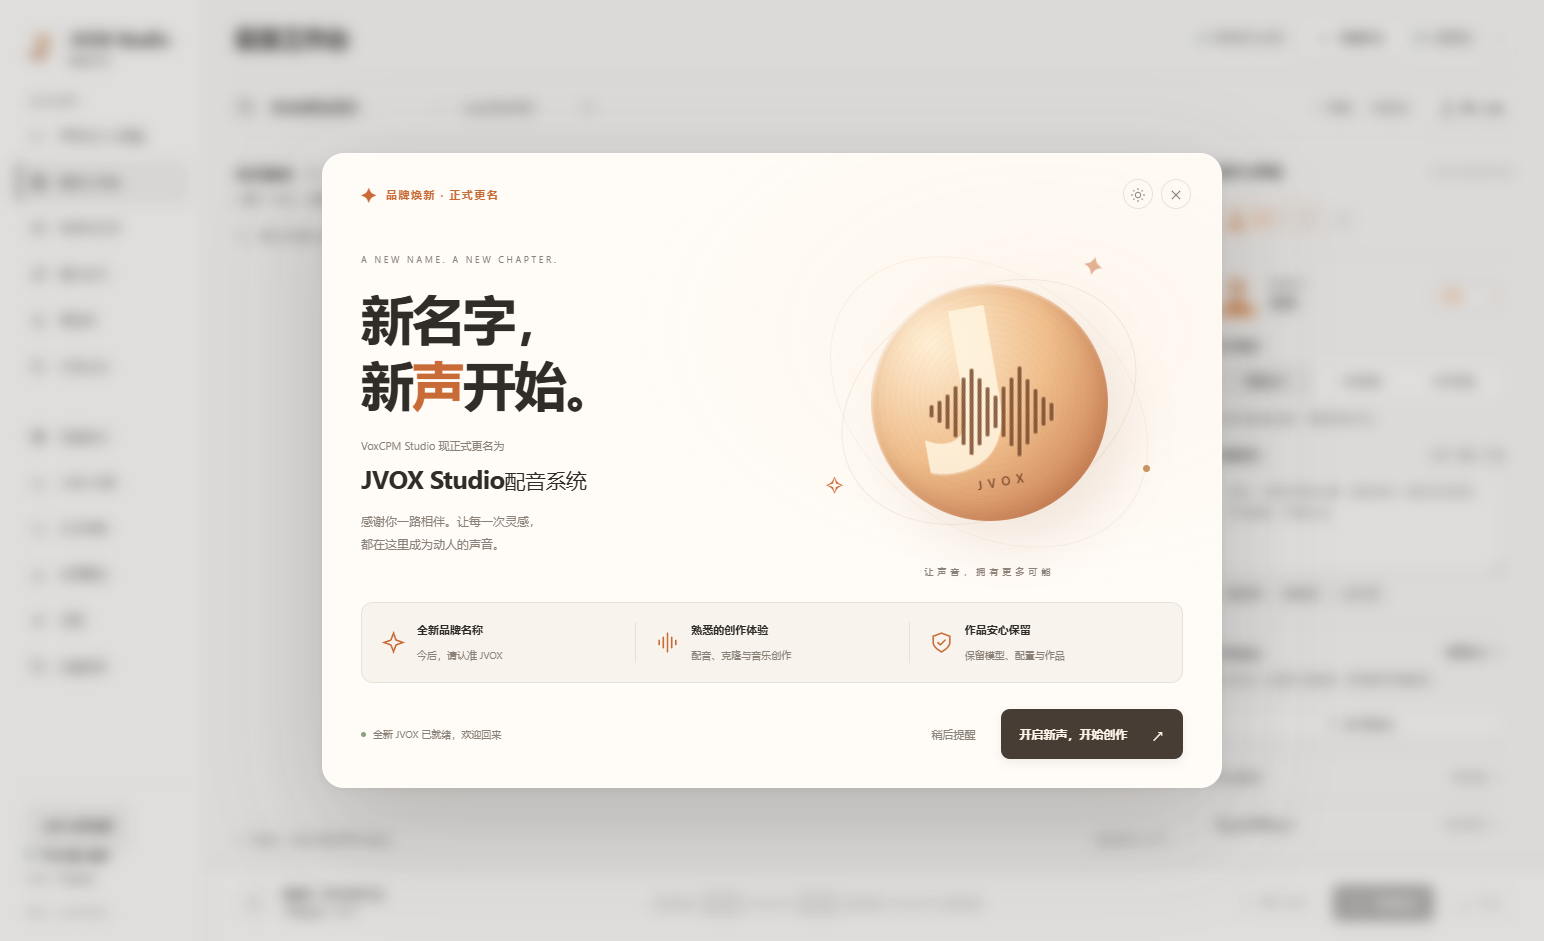
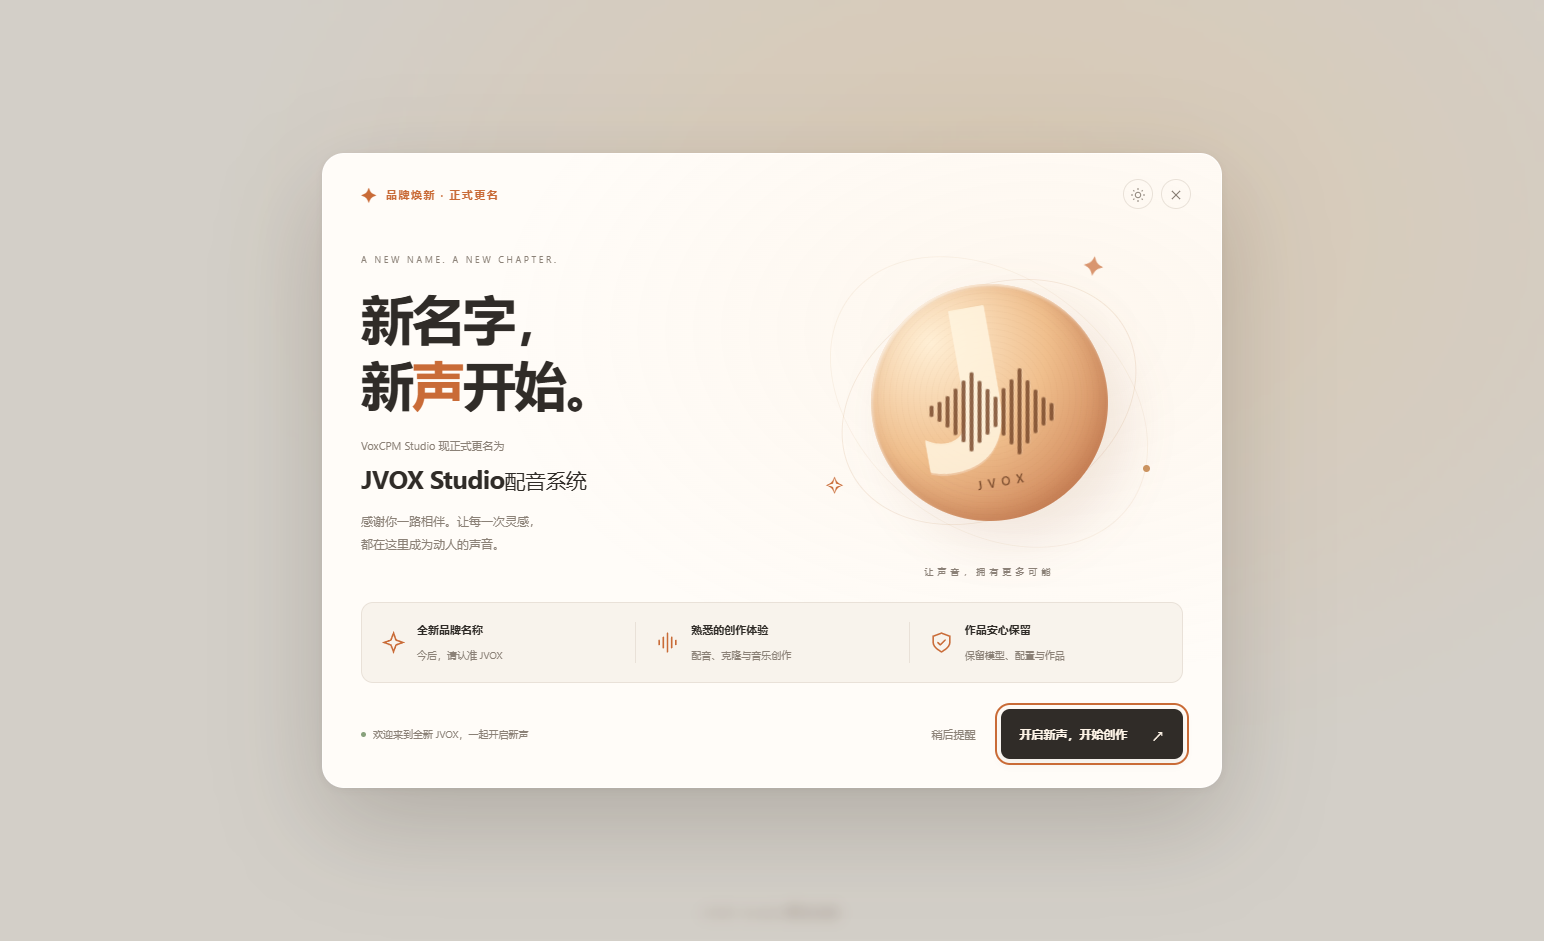
feat(welcome): show celebration as the first screen on initial launch

diff --git a/frontend/voxcpm_studio_electron/src/App.tsx b/frontend/voxcpm_studio_electron/src/App.tsx
@@ -1,4 +1,4 @@
-import { startTransition, useEffect, useState, type ReactNode } from "react";
+import { startTransition, useEffect, useLayoutEffect, useState, type ReactNode } from "react";
 import UpdatePanel from "./UpdatePanel";
 import BrandAnnouncementDialog from "./BrandAnnouncementDialog";
 import ProductionStudio from "./ProductionStudio";
@@ -509,7 +509,7 @@ function App() {
   ];
   const workspaceReferenceAudioUrl = toLocalFileUrl(singleForm.referenceAudio, bootstrap);
 
-  useEffect(() => {
+  useLayoutEffect(() => {
     window.voxcpmDesktop.rendererReady();
     document.body.setAttribute("data-theme", effectiveTheme);
   }, [effectiveTheme]);
@@ -1049,12 +1049,17 @@ function App() {
   );
 
   return (
-    <div className={`app-shell studio-shell ${["production", "voices", "history"].includes(page) ? "studio-creative-page" : ""}`}>
-      {brandAnnouncementOpen && bootstrap?.status === "ready" && <BrandAnnouncementDialog welcome
+    <>
+      {brandAnnouncementOpen && <div className="jvox-entry-screen">
+        <span className="jvox-entry-wordmark" aria-hidden="true">JVOX Studio配音系统</span>
+        <BrandAnnouncementDialog welcome
         onToggleTheme={() => setThemeMode(effectiveTheme === "dark" ? "light" : "dark")}
         onDismiss={() => setBrandAnnouncementOpen(false)}
-        onUpdate={() => { try { localStorage.setItem("jvox-brand-welcome-2026", "seen"); } catch { /* 无法保存时下次启动再次提醒。 */ } setBrandAnnouncementOpen(false); }} />}
-      <RuntimePreparation onRun={handleStartService} backendStatus={bootstrap?.status || "booting"} backendDetail={bootstrap?.detail || ""} />
+        onUpdate={() => { try { localStorage.setItem("jvox-brand-welcome-2026", "seen"); } catch { /* 无法保存时下次启动再次提醒。 */ } setBrandAnnouncementOpen(false); }} />
+      </div>}
+    <div className={`app-shell studio-shell ${["production", "voices", "history"].includes(page) ? "studio-creative-page" : ""}`}
+      style={brandAnnouncementOpen ? { display: "none" } : undefined} aria-hidden={brandAnnouncementOpen || undefined}>
+      <RuntimePreparation onRun={handleStartService} backendStatus={bootstrap?.status || "booting"} backendDetail={bootstrap?.detail || ""} suppressed={brandAnnouncementOpen} />
       <aside className="sidebar">
         <div className="sidebar-top">
           <div className="studio-brand">
@@ -1770,6 +1775,7 @@ function App() {
         mode={singleForm.mode} editing={!!editingVoiceId} referenceOnly={saveVoiceReferenceOnly}
         onCancel={() => setSaveVoiceOpen(false)} onSave={saveDesignedVoice} />}
     </div>
+    </>
   );
 }
 

diff --git a/frontend/voxcpm_studio_electron/src/RuntimePreparation.tsx b/frontend/voxcpm_studio_electron/src/RuntimePreparation.tsx
@@ -8,7 +8,7 @@ const stages = ["设备检查", "模型检查", "音频环境", "音频服务", 
 const phases: Record<string, number> = { detect: 0, check: 0, python: 2, dependencies: 2, verify: 2, models: 1, "environment-ready": 2, service: 3, components: 4, ready: 5 };
 const mb = (n: number) => `${(n / 1024 / 1024).toFixed(1)} MB`;
 
-export default function RuntimePreparation({ onRun, backendStatus, backendDetail }: { onRun: () => void; backendStatus: string; backendDetail: string }) {
+export default function RuntimePreparation({ onRun, backendStatus, backendDetail, suppressed = false }: { onRun: () => void; backendStatus: string; backendDetail: string; suppressed?: boolean }) {
   const [state, setState] = useState<State | null>(null);
   const [open, setOpen] = useState(false);
   const [showLog, setShowLog] = useState(false);
@@ -26,9 +26,9 @@ export default function RuntimePreparation({ onRun, backendStatus, backendDetail
     else if (backendStatus === "error") setOpen(true);
   }, [backendStatus]);
   useEffect(() => {
-    if (open) { returnFocus.current = document.activeElement as HTMLElement; if (!dialog.current?.open) dialog.current?.showModal(); }
+    if (open && !suppressed) { returnFocus.current = document.activeElement as HTMLElement; if (!dialog.current?.open) dialog.current?.showModal(); }
     else { dialog.current?.close(); returnFocus.current?.focus(); }
-  }, [open]);
+  }, [open, suppressed]);
   const backendFailed = state?.status === "ready" && backendStatus === "error";
   const failed = backendFailed || state?.status === "error" || backendStatus === "error";
   const paused = state?.status === "cancelled";

diff --git a/frontend/voxcpm_studio_electron/src/BrandAnnouncementDialog.tsx b/frontend/voxcpm_studio_electron/src/BrandAnnouncementDialog.tsx
@@ -1,4 +1,4 @@
-import { useEffect, useRef } from "react";
+import { useLayoutEffect, useRef } from "react";
 import "./brand-announcement.css";
 
 type Props = { onUpdate: () => void; onDismiss: () => void; onToggleTheme?: () => void; welcome?: boolean };
@@ -14,7 +14,7 @@ function FeatureIcon({ kind }: { kind: "spark" | "wave" | "shield" }) {
 export default function BrandAnnouncementDialog({ onUpdate, onDismiss, onToggleTheme, welcome = false }: Props) {
   const dialog = useRef<HTMLDialogElement>(null);
   const primary = useRef<HTMLButtonElement>(null);
-  useEffect(() => {
+  useLayoutEffect(() => {
     const element = dialog.current!;
     const previous = document.activeElement as HTMLElement | null;
     element.showModal();
@@ -57,7 +57,7 @@ export default function BrandAnnouncementDialog({ onUpdate, onDismiss, onToggleT
       </section>
 
       <footer className="jvox-announcement-footer">
-        <div className="jvox-footer-note"><span className="jvox-ready-dot" /> {welcome ? "全新 JVOX 已就绪，欢迎回来" : "一次更新，迎接全新 JVOX"}</div>
+        <div className="jvox-footer-note"><span className="jvox-ready-dot" /> {welcome ? "欢迎来到全新 JVOX，一起开启新声" : "一次更新，迎接全新 JVOX"}</div>
         <div className="jvox-announcement-actions"><button className="jvox-later" type="button" onClick={onDismiss}>稍后提醒</button><button ref={primary} className="jvox-update" type="button" onClick={onUpdate}>{welcome ? "开启新声，开始创作" : "立即更新，开启新声"} <span aria-hidden="true">↗</span></button></div>
       </footer>
     </div>

diff --git a/frontend/voxcpm_studio_electron/main.js b/frontend/voxcpm_studio_electron/main.js
@@ -368,7 +368,7 @@ function createWindow() {
   mainWindow = new BrowserWindow({
     title: "JVOX Studio配音系统",
     icon: path.join(__dirname, "app.ico"),
-    show: !preparingInstallation,
+    show: false,
     width: WINDOW_BOUNDS.width,
     height: WINDOW_BOUNDS.height,
     minWidth: WINDOW_BOUNDS.minWidth,
@@ -381,6 +381,10 @@ function createWindow() {
       nodeIntegration: false,
       sandbox: false,
     },
+  });
+
+  mainWindow.once("ready-to-show", () => {
+    if (!preparingInstallation && mainWindow && !mainWindow.isDestroyed()) mainWindow.show();
   });
 
   const distIndex = path.join(__dirname, "dist", "index.html");

diff --git a/frontend/voxcpm_studio_electron/src/brand-announcement.css b/frontend/voxcpm_studio_electron/src/brand-announcement.css
@@ -1,3 +1,6 @@
+.jvox-entry-screen { position: fixed; inset: 0; display: grid; place-items: center; background: radial-gradient(ellipse at 65% 25%, #f8e5cc, transparent 55%), #f1ede6; }
+.jvox-entry-wordmark { position: absolute; bottom: 22px; color: #9c8873; font-size: 10px; letter-spacing: 3px; }
+[data-theme="dark"] .jvox-entry-screen { background: radial-gradient(ellipse at 65% 25%, #3a2d20, transparent 55%), #171715; }
 .jvox-announcement {
   --ja-bg: #fffcf8; --ja-ink: #302c28; --ja-muted: #8b8177; --ja-line: #e9e1d8;
   --ja-accent: #c96b37; --ja-card: #f8f3ec; --ja-button: #302c28; --ja-button-ink: #fff5e8;

diff --git a/docs/自动更新说明.md b/docs/自动更新说明.md
@@ -1,8 +1,8 @@
 # JVOX Studio配音系统 自动更新
 
-产品现正式更名为 **JVOX Studio配音系统**。旧安装目录、模型标识、更新协议、公钥、仓库ID和数据目录保持兼容；旧主程序文件可作为兼容入口继续使用，升级同时创建新名称启动入口并迁移归属明确的快捷方式及卸载名称。首次进入新版展示更名庆祝弹窗，选择“开启新声，开始创作”后不再重复提示；“稍后提醒”在下次启动继续展示。
+产品现正式更名为 **JVOX Studio配音系统**。旧安装目录、模型标识、更新协议、公钥、仓库ID和数据目录保持兼容；旧主程序文件可作为兼容入口继续使用，升级同时创建新名称启动入口并迁移归属明确的快捷方式及卸载名称。首次进入新版时第一屏直接展示更名庆祝页，无需等待本地服务，点击后进入工作台；后台资源准备不会覆盖庆祝页，选择“开启新声，开始创作”后不再重复提示；“稍后提醒”在下次启动继续展示。
 
-当前正式版本为 `2.0.3 / 20261019101750`，启动发现新版直接打开独立更新器，选择后自动完成下载、校验、安装及重启；包含更新切换开关、音乐模型误报修复和使用前自动修复。默认更新源为 [魔搭专用仓库](https://modelscope.cn/models/jiangjiang419/voxcpm-studio-updates)，普通用户无需账号、Token 或代理。
+当前正式版本为 `2.0.3 / 20261019103629`，启动发现新版直接打开独立更新器，选择后自动完成下载、校验、安装及重启；包含更新切换开关、音乐模型误报修复和使用前自动修复。默认更新源为 [魔搭专用仓库](https://modelscope.cn/models/jiangjiang419/voxcpm-studio-updates)，普通用户无需账号、Token 或代理。
 
 历史发布：2026-10-19 发布 `2.0.2 / 20261018235215` 及[单文件老用户更新修复器 EXE](https://modelscope.cn/api/v1/models/jiangjiang419/voxcpm-studio-updates/repo?Revision=master&FilePath=repairers%2F2.0.2%2F20261018235215-0f71f753d9%2FVoxCPM-Update-Repairer.exe)。修复器自带最小更新环境，支持版本记录或更新文件损坏、同发布再次修复、旧事务恢复和旧启动入口修正；修复后常规更新使用独立Python，环境缺失或损坏自动补齐。修复器、更新包及最新入口均匿名回读核验。用户只需保存任务、双击EXE、确认原目录、点击「开始修复并升级」；自动关闭并强制结束该目录隐藏进程，详见[使用说明](./老用户更新修复器使用说明.md)。
 
@@ -10,7 +10,7 @@
 
 正常启动先进入工作区，不执行所选模型的全量校验或音乐环境自检；连接服务时可以先浏览界面，使用对应模型时才进行校验和加载。首次安装及用户显式完整准备仍展示资源检查、下载和安装进度。工作区及基础 API 就绪后自动检查更新，新流程直接打开原生独立更新器，提供“现在更新”和“下次启动更新”；选择前不下载，同次运行不重复自动提醒，网络失败不影响创作。旧客户端首次安装本次更新仍需使用其原有“查看更新/下载更新”入口，此后才具备新流程。
 
-新安装和检查修复统一使用[最终基准安装器 EXE](https://modelscope.cn/api/v1/models/jiangjiang419/voxcpm-studio-updates/repo?Revision=master&FilePath=installers%2F2.0.3%2F20261019101750-ff0f78a9e7%2FJVOX-Studio-Installer.exe)（131751424字节）。内置应用与当前签名更新包逐文件一致，新安装即拥有当前全部应用功能与更新体验；模型和依赖按所选功能联网补齐。已安装则自动检查，正常时可直接开始创作；只有发现问题才关闭本目录进程并修复。详见[分发基准包](./分发基准包.md)和[一体版使用说明](./安装修复一体化使用说明.md)。应用包和一体版EXE均经过签名或SHA256校验与匿名完整回读。
+新安装和检查修复统一使用[最终基准安装器 EXE](https://modelscope.cn/api/v1/models/jiangjiang419/voxcpm-studio-updates/repo?Revision=master&FilePath=installers%2F2.0.3%2F20261019103629-1d02efcb80%2FJVOX-Studio-Installer.exe)（131751424字节）。内置应用与当前签名更新包逐文件一致，新安装即拥有当前全部应用功能与更新体验；模型和依赖按所选功能联网补齐。已安装则自动检查，正常时可直接开始创作；只有发现问题才关闭本目录进程并修复。详见[分发基准包](./分发基准包.md)和[一体版使用说明](./安装修复一体化使用说明.md)。应用包和一体版EXE均经过签名或SHA256校验与匿名完整回读。
 
 ## 使用方法
 

diff --git a/docs/分发基准包.md b/docs/分发基准包.md
@@ -1,15 +1,15 @@
 # JVOX Studio配音系统 分发基准包
 
-当前基准为 `2.0.3 / 20261019101750`，最终安装器构建 `ff0f78a9e7`，编译日期 2026-10-19。新安装使用此文件即可获得当前全部应用功能及修复；模型与运行依赖按用户选择联网补齐。
+当前基准为 `2.0.3 / 20261019103629`，最终安装器构建 `1d02efcb80`，编译日期 2026-10-19。新安装使用此文件即可获得当前全部应用功能及修复；模型与运行依赖按用户选择联网补齐。
 
-[从魔搭下载最终基准安装器](https://modelscope.cn/api/v1/models/jiangjiang419/voxcpm-studio-updates/repo?Revision=master&FilePath=installers%2F2.0.3%2F20261019101750-ff0f78a9e7%2FJVOX-Studio-Installer.exe)
+[从魔搭下载最终基准安装器](https://modelscope.cn/api/v1/models/jiangjiang419/voxcpm-studio-updates/repo?Revision=master&FilePath=installers%2F2.0.3%2F20261019103629-1d02efcb80%2FJVOX-Studio-Installer.exe)
 
-本地分发目录：`builds/正式分发/基准包-2.0.3-20261019101750/`。直接发送其中的 `JVOX Studio配音系统安装器.exe` 即可，其余文件提供使用说明、校验值与版本记录。
+本地分发目录：`builds/正式分发/基准包-2.0.3-20261019103629/`。直接发送其中的 `JVOX Studio配音系统安装器.exe` 即可，其余文件提供使用说明、校验值与版本记录。
 
 EXE 大小 131,751,424 字节（约 125.6 MiB），SHA256：
 
 ```text
[2 lines of base64/hex data omitted]
 ```
 
 新安装和旧版更新最终使用同一签名应用快照，111 个应用文件与当前源码、桌面包及实际安装结果一致。保留助手卡片和设置、语音/配音/视频/音乐等全部现有模块，并包含启动更新选择、更新开关、访问时间误报修复及音乐模型按需自动修复。

diff --git a/README.md b/README.md
@@ -1,6 +1,6 @@
 # JVOX Studio配音系统
 
-2026-10-19 正式发布 **JVOX Studio配音系统 2.0.3**，发布序号 `20261019101750`。原 VoxCPM Studio 正式更名，工作台、窗口、图标、安装器、快捷方式和卸载入口统一焕新；首次进入新版显示更名庆祝弹窗，确认后不再重复提示。旧版可通过原有更新入口直接升级，保留模型、配置、音色、作品和功能选择。[下载 JVOX Studio配音系统安装器](https://modelscope.cn/api/v1/models/jiangjiang419/voxcpm-studio-updates/repo?Revision=master&FilePath=installers%2F2.0.3%2F20261019101750-ff0f78a9e7%2FJVOX-Studio-Installer.exe)（约 125.6 MiB），新用户安装和老用户检查修复使用同一文件。详见[分发基准包](./docs/分发基准包.md)及[安装修复一体化使用说明](./docs/安装修复一体化使用说明.md)。
+2026-10-19 正式发布 **JVOX Studio配音系统 2.0.3**，发布序号 `20261019103629`。原 VoxCPM Studio 正式更名，工作台、窗口、图标、安装器、快捷方式和卸载入口统一焕新；首次进入新版，第一屏直接显示更名庆祝页，点击后进入工作台，确认后不再重复提示。旧版可通过原有更新入口直接升级，保留模型、配置、音色、作品和功能选择。[下载 JVOX Studio配音系统安装器](https://modelscope.cn/api/v1/models/jiangjiang419/voxcpm-studio-updates/repo?Revision=master&FilePath=installers%2F2.0.3%2F20261019103629-1d02efcb80%2FJVOX-Studio-Installer.exe)（约 125.6 MiB），新用户安装和老用户检查修复使用同一文件。详见[分发基准包](./docs/分发基准包.md)及[安装修复一体化使用说明](./docs/安装修复一体化使用说明.md)。
 
 ![品牌焕新庆祝弹窗](./docs/screenshots/jvox-rebrand.png)
 

diff --git a/docs/安装修复一体化使用说明.md b/docs/安装修复一体化使用说明.md
@@ -2,7 +2,7 @@
 
 运行同一个 `JVOX Studio配音系统安装器.exe` 即可安装或检查修复。
 
[2 lines of base64/hex data omitted]
 
 - 首次安装：选择安装位置和功能，补齐依赖与模型，完成后进入工作台。
 - 再次运行：自动识别原安装目录，检查应用、运行环境和已选择的功能。正常时提示“一切正常，无需再次安装，开始创作吧”，可点击“开始创作”。
